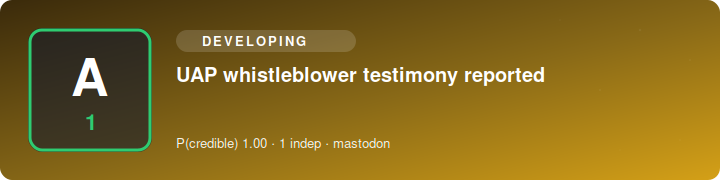
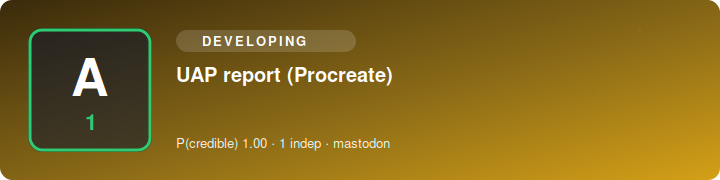
SITREP 2026-07-21 04:20 UTC

Changed region(s): [[0.3056, 0.3611, 0.7639, 0.4722]]

diff --git a/index.html b/index.html
@@ -1,1 +1,1 @@
-<!doctype html><meta charset=utf-8><title>Science Bob News — SITREP</title><style>body{font:16px/1.5 system-ui,sans-serif;max-width:760px;margin:2rem auto;padding:0 1rem;color:#111}h1{font-size:1.5rem}h2{margin-top:1.6rem;border-bottom:1px solid #ddd;padding-bottom:.2rem}ul{list-style:none;padding:0}li{margin:.9rem 0}.hl{font-weight:600}.meta{color:#555;font-size:.85rem}.src{font-size:.85rem}.vid{font-size:.85rem;margin-top:.15rem}.card{display:block;max-width:100%;height:auto;border-radius:8px;margin:.4rem 0 .5rem}.upd{background:#fde68a;padding:0 .3rem;border-radius:.2rem;font-size:.75rem}.sub{color:#777;font-size:.85rem}footer{color:#777;font-size:.8rem;margin-top:2rem;border-top:1px solid #ddd;padding-top:.6rem}</style><h1>🛸 Science Bob News</h1><div class="sub">UAP / UFO / USO SITREP · updated 2026-07-21 04:10 UTC · automated</div><h2>Corroborated</h2><ul><li><img class="card" src="https://n4hy.github.io/sciencebobnews-site/card_c_1.svg" alt="" width="720" height="180"><div class="hl">UAP report</div><div class="meta">reliability <b>A1</b> · P(credible)=1.0 · 2 independent source(s) · mastodon</div><div class="src"><a href="https://mastodon.online/@KilleansRow/116950757565033042">@KilleansRow@mastodon.online</a> · <a href="https://mastodon.social/@veryexcitingtime/116943386009393198">@veryexcitingtime</a></div></li></ul><h2>Developing / unconfirmed</h2><ul><li><img class="card" src="https://n4hy.github.io/sciencebobnews-site/card_d_1.svg" alt="" width="720" height="180"><div class="hl">UAP report</div><div class="meta">reliability <b>A1</b> · P(credible)=1.0 · 1 independent source(s) · mastodon</div><div class="src"><a href="https://mastodon.social/@inkican/116953294536957948">@inkican</a></div></li><li><img class="card" src="https://n4hy.github.io/sciencebobnews-site/card_d_2.svg" alt="" width="720" height="180"><div class="hl">Official UAP statement reported</div><div class="meta">reliability <b>A1</b> · P(credible)=1.0 · 1 independent source(s) · mastodon</div><div class="src"><a href="https://mastodon.au/@vibewire/116947245997831106">@vibewire@mastodon.au</a></div></li><li><img class="card" src="https://n4hy.github.io/sciencebobnews-site/card_d_3.svg" alt="" width="720" height="180"><div class="hl">UAP whistleblower testimony reported</div><div class="meta">reliability <b>A1</b> · P(credible)=1.0 · 1 independent source(s) · mastodon</div><div class="src"><a href="https://mastodon.au/@vibewire/116954403453413553">@vibewire@mastodon.au</a></div></li><li><img class="card" src="https://n4hy.github.io/sciencebobnews-site/card_d_4.svg" alt="" width="720" height="180"><div class="hl">Official UAP statement reported</div><div class="meta">reliability <b>A1</b> · P(credible)=1.0 · 1 independent source(s) · rumble</div><div class="src"><a href="https://www.youtube.com/watch?v=VM8ZX9-ruUM">@podcast</a></div><div class="vid">📹 <a href="https://www.youtube.com/watch?v=VM8ZX9-ruUM">video</a></div></li><li><img class="card" src="https://n4hy.github.io/sciencebobnews-site/card_d_5.svg" alt="" width="720" height="180"><div class="hl">UAP whistleblower testimony reported</div><div class="meta">reliability <b>A1</b> · P(credible)=1.0 · 1 independent source(s) · mastodon</div><div class="src"><a href="https://mastodon.social/@ScienceBob/116955965730636395">@ScienceBob</a></div></li></ul><footer><b>Powered by Science Bob News.</b> Free to use with credit (see LICENSE). Headlines are factual restatements in the engine's own words; click sources for originals. Single-origin reposts collapse to one source; prosaic candidates flagged where offered.</footer>
+<!doctype html><meta charset=utf-8><title>Science Bob News — SITREP</title><style>body{font:16px/1.5 system-ui,sans-serif;max-width:760px;margin:2rem auto;padding:0 1rem;color:#111}h1{font-size:1.5rem}h2{margin-top:1.6rem;border-bottom:1px solid #ddd;padding-bottom:.2rem}ul{list-style:none;padding:0}li{margin:.9rem 0}.hl{font-weight:600}.meta{color:#555;font-size:.85rem}.src{font-size:.85rem}.vid{font-size:.85rem;margin-top:.15rem}.card{display:block;max-width:100%;height:auto;border-radius:8px;margin:.4rem 0 .5rem}.upd{background:#fde68a;padding:0 .3rem;border-radius:.2rem;font-size:.75rem}.sub{color:#777;font-size:.85rem}footer{color:#777;font-size:.8rem;margin-top:2rem;border-top:1px solid #ddd;padding-top:.6rem}</style><h1>🛸 Science Bob News</h1><div class="sub">UAP / UFO / USO SITREP · updated 2026-07-21 04:20 UTC · automated</div><h2>Corroborated</h2><ul><li><img class="card" src="https://n4hy.github.io/sciencebobnews-site/card_c_1.svg" alt="" width="720" height="180"><div class="hl">UAP report</div><div class="meta">reliability <b>A1</b> · P(credible)=1.0 · 2 independent source(s) · mastodon</div><div class="src"><a href="https://mastodon.online/@KilleansRow/116950757565033042">@KilleansRow@mastodon.online</a> · <a href="https://mastodon.social/@veryexcitingtime/116943386009393198">@veryexcitingtime</a></div></li></ul><h2>Developing / unconfirmed</h2><ul><li><img class="card" src="https://n4hy.github.io/sciencebobnews-site/card_d_1.svg" alt="" width="720" height="180"><div class="hl">UAP report</div><div class="meta">reliability <b>A1</b> · P(credible)=1.0 · 1 independent source(s) · mastodon</div><div class="src"><a href="https://mastodon.social/@inkican/116953294536957948">@inkican</a></div></li><li><img class="card" src="https://n4hy.github.io/sciencebobnews-site/card_d_2.svg" alt="" width="720" height="180"><div class="hl">Official UAP statement reported</div><div class="meta">reliability <b>A1</b> · P(credible)=1.0 · 1 independent source(s) · mastodon</div><div class="src"><a href="https://mastodon.au/@vibewire/116947245997831106">@vibewire@mastodon.au</a></div></li><li><img class="card" src="https://n4hy.github.io/sciencebobnews-site/card_d_3.svg" alt="" width="720" height="180"><div class="hl">UAP whistleblower testimony reported</div><div class="meta">reliability <b>A1</b> · P(credible)=1.0 · 1 independent source(s) · mastodon</div><div class="src"><a href="https://mastodon.au/@vibewire/116954403453413553">@vibewire@mastodon.au</a></div></li><li><img class="card" src="https://n4hy.github.io/sciencebobnews-site/card_d_4.svg" alt="" width="720" height="180"><div class="hl">UAP whistleblower testimony reported</div><div class="meta">reliability <b>A1</b> · P(credible)=1.0 · 1 independent source(s) · mastodon</div><div class="src"><a href="https://mastodon.social/@ScienceBob/116955965730636395">@ScienceBob</a></div></li><li><img class="card" src="https://n4hy.github.io/sciencebobnews-site/card_d_5.svg" alt="" width="720" height="180"><div class="hl">UAP report (Procreate)</div><div class="meta">reliability <b>A1</b> · P(credible)=1.0 · 1 independent source(s) · mastodon</div><div class="src"><a href="https://sunny.garden/@mattievictoria/116943710073567128">@mattievictoria@sunny.garden</a></div></li></ul><footer><b>Powered by Science Bob News.</b> Free to use with credit (see LICENSE). Headlines are factual restatements in the engine's own words; click sources for originals. Single-origin reposts collapse to one source; prosaic candidates flagged where offered.</footer>

diff --git a/sitrep.md b/sitrep.md
@@ -1,5 +1,5 @@
 # 🛸 Science Bob News — UAP / UFO / USO SITREP
-*Updated 2026-07-21 04:10 UTC · auto-generated · sources credited & linked · reliability ratings are automated, not editorial*
+*Updated 2026-07-21 04:20 UTC · auto-generated · sources credited & linked · reliability ratings are automated, not editorial*
 
 ## Corroborated
 
@@ -22,14 +22,13 @@
 3. UAP whistleblower testimony reported — reliability A1 · 1 source(s)  
    [@vibewire@mastodon.au](https://mastodon.au/@vibewire/116954403453413553)
 
-![Official UAP statement reported](https://n4hy.github.io/sciencebobnews-site/card_d_4.svg)
-4. Official UAP statement reported — reliability A1 · 1 source(s)  
-   [@podcast](https://www.youtube.com/watch?v=VM8ZX9-ruUM)  
-   📹 [video](https://www.youtube.com/watch?v=VM8ZX9-ruUM)
-
-![UAP whistleblower testimony reported](https://n4hy.github.io/sciencebobnews-site/card_d_5.svg)
-5. UAP whistleblower testimony reported — reliability A1 · 1 source(s)  
+![UAP whistleblower testimony reported](https://n4hy.github.io/sciencebobnews-site/card_d_4.svg)
+4. UAP whistleblower testimony reported — reliability A1 · 1 source(s)  
    [@ScienceBob](https://mastodon.social/@ScienceBob/116955965730636395)
+
+![UAP report (Procreate)](https://n4hy.github.io/sciencebobnews-site/card_d_5.svg)
+5. UAP report (Procreate) — reliability A1 · 1 source(s)  
+   [@mattievictoria@sunny.garden](https://sunny.garden/@mattievictoria/116943710073567128)
 
 ---
 *Powered by Science Bob News. Free to use with credit (see LICENSE). Headlines are factual restatements in the engine's own words — click through to the linked sources for originals. Reposts of a single origin are collapsed to one source; candidate prosaic explanations are flagged where offered.*
